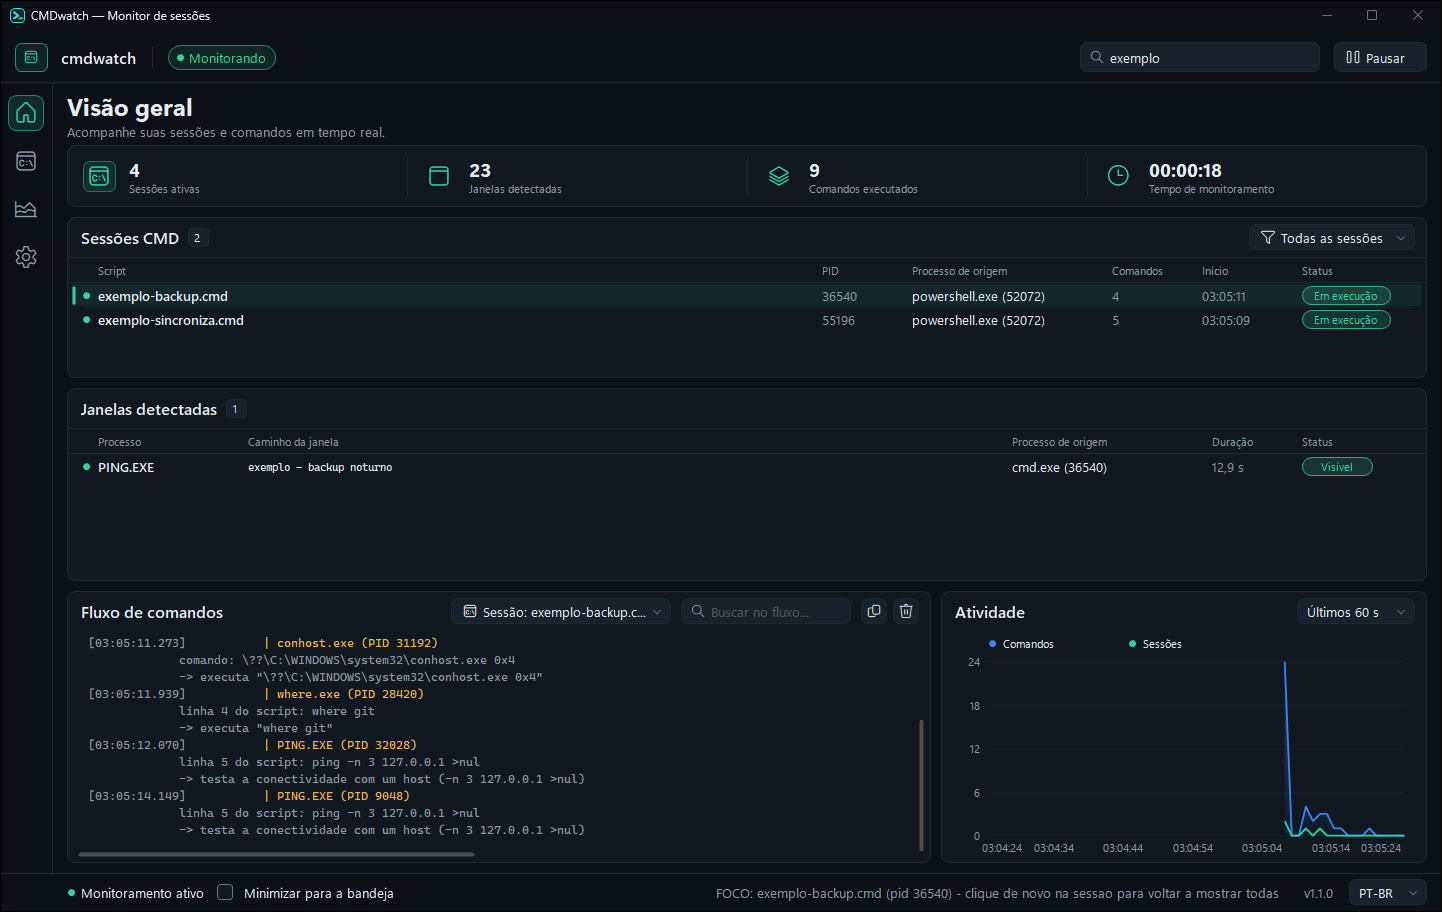
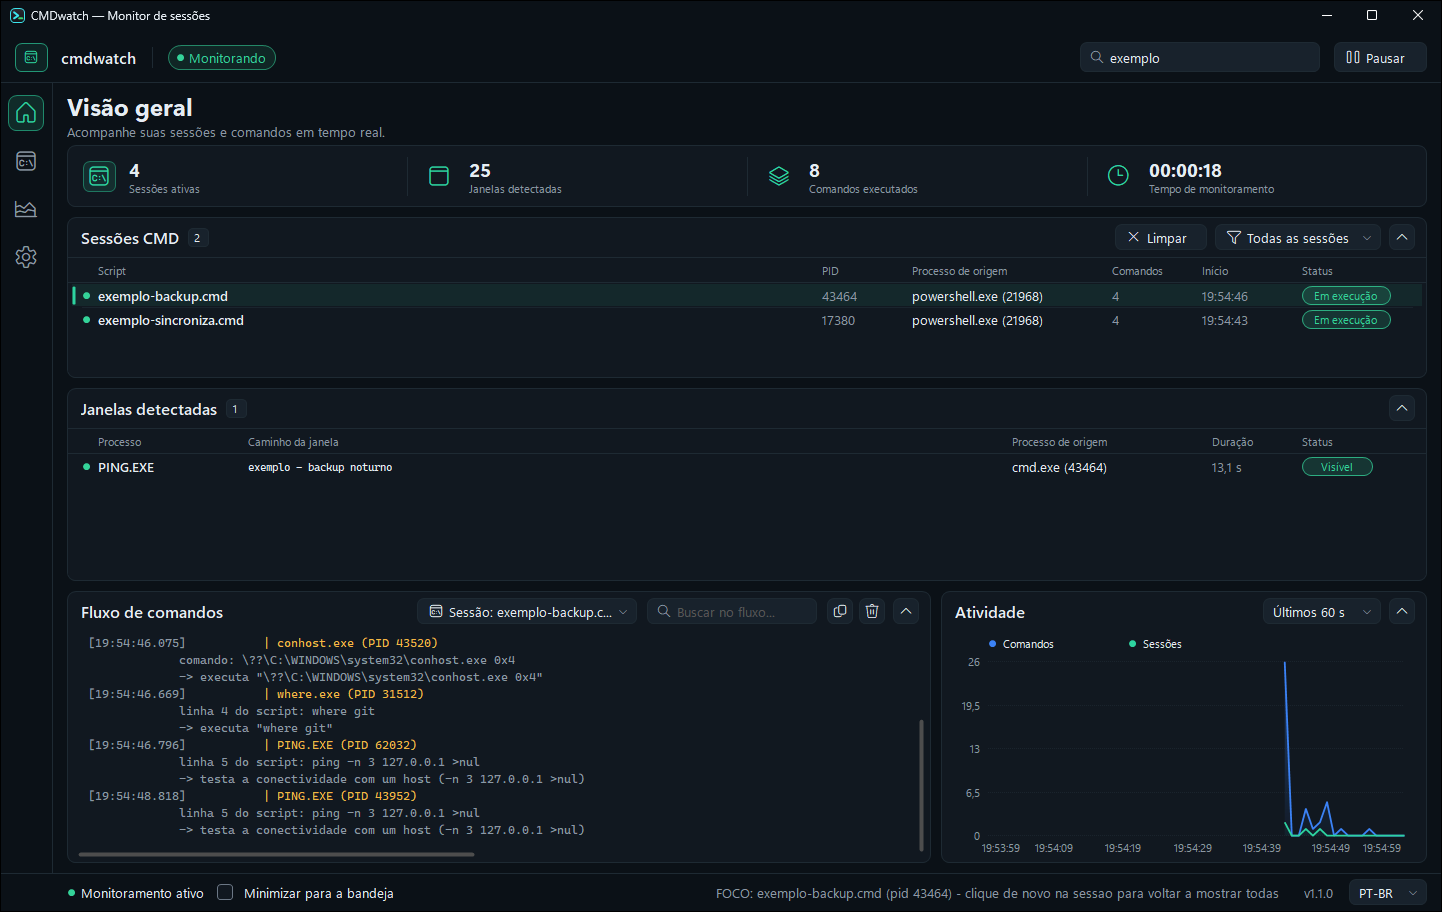
painel: botão Limpar em Sessões CMD, recolher/expandir cartões; README e imagens atualizados

diff --git a/src/gui/DashboardForm.cs b/src/gui/DashboardForm.cs
@@ -54,6 +54,13 @@ namespace CmdWatch.Gui
         private SideBar _side;
         private SearchBox _busca, _buscaFluxo;
         private IconButton _btnPausa, _btnFiltro, _btnSessao, _btnCopiar, _btnLimpar, _btnFaixa, _btnIdioma;
+        private IconButton _btnLimparSess;
+        // recolher/expandir cada cartao: botao de seta no cabecalho; chave salva em ui.cfg
+        private readonly Dictionary<NeonPanel, IconButton> _chev = new Dictionary<NeonPanel, IconButton>();
+        private readonly Dictionary<NeonPanel, string> _chave = new Dictionary<NeonPanel, string>();
+        private readonly HashSet<string> _recolhidos = new HashSet<string>();
+        // "Limpar" das sessoes: sessoes ja vistas (pid + inicio do cmd) deixam de ser mostradas
+        private readonly Dictionary<int, DateTime> _limpas = new Dictionary<int, DateTime>();
         private IconButton _navHome, _navLog, _navGrafico, _navConfig;
         private NotifyIcon _tray;
         private ToolStripMenuItem _miRestore, _miOpenLog, _miQuit;
@@ -165,6 +172,21 @@ namespace CmdWatch.Gui
             _btnCopiar = Botao(_pStream, "\uE8C8", "", false, delegate { CopiarFluxo(); });
             _btnLimpar = Botao(_pStream, "\uE74D", "", false, delegate { LimparFluxo(); });
             _btnFaixa = Botao(_pActivity, "", "", true, delegate { MenuFaixa(_btnFaixa); });
+            _btnLimparSess = Botao(_pSessions, "\uE894", "", false, delegate { LimparSessoes(); });
+            _btnLimparSess.Name = _btnLimparSess.Text = "btnLimparSessoes";
+
+            // seta de recolher em todos os cartoes (nomes estaveis para a automacao de UI)
+            _chave[_pSessions] = "sessoes"; _chave[_pWindows] = "janelas";
+            _chave[_pStream] = "fluxo"; _chave[_pActivity] = "atividade";
+            CarregarRecolhidos();
+            foreach (KeyValuePair<NeonPanel, string> c in _chave)
+            {
+                NeonPanel np = c.Key;
+                np.Name = np.Text = "cartao_" + c.Value;
+                IconButton b = Botao(np, "", "", false, delegate { AlternarRecolher(np); });
+                b.Name = b.Text = "recolher_" + c.Value;
+                _chev[np] = b;
+            }
 
             // rodape
             _checkTray = new NeonCheckBox();
@@ -212,6 +234,15 @@ namespace CmdWatch.Gui
             _btnSessao.Label = Lang.F("v2FlowSess", NomeSessao(_selectedPid));
             _btnCopiar.Tip = Lang.T("v2Copy");
             _btnLimpar.Tip = Lang.T("v2Clear");
+            _btnLimparSess.Label = Lang.T("v2ClearSess");
+            _btnLimparSess.Tip = Lang.T("v2ClearSessTip");
+            foreach (KeyValuePair<NeonPanel, IconButton> c in _chev)
+            {
+                bool rec = Recolhido(c.Key);
+                c.Value.Glyph = rec ? "\uE70D" : "\uE70E";   // seta para baixo = expandir; para cima = recolher
+                c.Value.Tip = Lang.T(rec ? "v2Expand" : "v2Collapse");
+                c.Value.Invalidate();
+            }
             _btnFaixa.Label = Lang.F("v2Range", _activity.Capacity);
             _checkTray.Label = Lang.T("v2Tray");
             _btnIdioma.Label = Lang.Atual == Idioma.En ? "EN" : "PT-BR";
@@ -247,22 +278,45 @@ namespace CmdWatch.Gui
 
             int resto = h - FootH - Gap - y;
             int minT = cab + 26 + 2 * 24 + 6;        // cabecalho + colunas + 2 linhas
-            int sessH = Math.Max(minT, (int)(resto * 0.25));
-            int winH = Math.Max(minT, (int)(resto * 0.30));
-            int midH = Math.Max(130, resto - sessH - winH - Gap * 2);
+            // cartao recolhido = so a linha do cabecalho; os abertos dividem o espaco livre
+            bool cS = Recolhido(_pSessions), cW = Recolhido(_pWindows), cF = Recolhido(_pStream), cA = Recolhido(_pActivity);
+            bool midAberto = !(cF && cA);
+            int midExtra = cF != cA ? cab + Gap : 0;  // um dos dois de baixo recolhido: vira faixa acima do outro
+            int fixo = (cS ? cab : 0) + (cW ? cab : 0) + (midAberto ? 0 : cab);
+            double peso = (cS ? 0 : 0.25) + (cW ? 0 : 0.30) + (midAberto ? 0.45 : 0);
+            int livre = Math.Max(0, resto - fixo - midExtra);
+            if (peso <= 0) peso = 1;
+            int sessH = cS ? cab : Math.Max(minT, (int)(livre * 0.25 / peso));
+            int winH = cW ? cab : Math.Max(minT, (int)(livre * 0.30 / peso));
+            int midH = midAberto ? Math.Max(130, resto - sessH - winH - Gap * 2 - midExtra) : cab;
             _pSessions.SetBounds(x0, y, cw, sessH);
             y += sessH + Gap;
             _pWindows.SetBounds(x0, y, cw, winH);
             y += winH + Gap;
-            int flowW = (int)((cw - Gap) * 0.64);
-            _pStream.SetBounds(x0, y, flowW, midH);
-            _pActivity.SetBounds(x0 + flowW + Gap, y, cw - flowW - Gap, midH);
+            if (cF == cA)
+            {
+                int flowW = (int)((cw - Gap) * 0.64);
+                _pStream.SetBounds(x0, y, flowW, midH);
+                _pActivity.SetBounds(x0 + flowW + Gap, y, cw - flowW - Gap, midH);
+            }
+            else
+            {
+                NeonPanel fechado = cF ? _pStream : _pActivity, aberto = cF ? _pActivity : _pStream;
+                fechado.SetBounds(x0, y, cw, cab);
+                aberto.SetBounds(x0, y + cab + Gap, cw, midH);
+            }
+            _sessions.Visible = !cS; _windows.Visible = !cW; _stream.Visible = !cF; _activity.Visible = !cA;
 
-            // controles dos cabecalhos dos cartoes (alinhados a direita)
+            // controles dos cabecalhos dos cartoes (alinhados a direita; a seta fica no canto)
             int hb = 26, hy = (_pSessions.HeaderHeight - hb) / 2;
+            foreach (KeyValuePair<NeonPanel, IconButton> c in _chev)
+                c.Value.SetBounds(c.Key.Width - 12 - hb, hy, hb, hb);
+            int dir = 12 + hb + 8;
             int fw = Math.Max(140, _btnFiltro.PreferredW());
-            _btnFiltro.SetBounds(_pSessions.Width - 12 - fw, hy, fw, hb);
-            int fx = _pStream.Width - 12;
+            _btnFiltro.SetBounds(_pSessions.Width - dir - fw, hy, fw, hb);
+            int lsw = _btnLimparSess.PreferredW() + 4;
+            _btnLimparSess.SetBounds(_btnFiltro.Left - 8 - lsw, hy, lsw, hb);
+            int fx = _pStream.Width - dir;
             _btnLimpar.SetBounds(fx - hb, hy, hb, hb); fx -= hb + 6;
             _btnCopiar.SetBounds(fx - hb, hy, hb, hb); fx -= hb + 10;
             int qw = Math.Min(170, Math.Max(90, _pStream.Width / 5));
@@ -271,7 +325,7 @@ namespace CmdWatch.Gui
             ssw = Math.Min(ssw, fx - 170);
             _btnSessao.SetBounds(fx - ssw, hy, Math.Max(60, ssw), hb);
             int rw = _btnFaixa.PreferredW();
-            _btnFaixa.SetBounds(_pActivity.Width - 12 - rw, hy, rw, hb);
+            _btnFaixa.SetBounds(_pActivity.Width - dir - rw, hy, rw, hb);
 
             foreach (var par in new KeyValuePair<NeonPanel, Control>[] {
                 new KeyValuePair<NeonPanel, Control>(_pSessions, _sessions),
@@ -466,6 +520,51 @@ namespace CmdWatch.Gui
         {
             _entries.Clear();
             _stream.ClearFlow();
+        }
+
+        /// <summary>
+        /// "Limpar" do cartao Sessoes CMD: esconde todas as sessoes listadas ate
+        /// agora (abertas ou encerradas) e passa a mostrar so as que abrirem
+        /// depois do clique. Nao encerra processos, nao mexe no log nem no
+        /// monitor; o fluxo de comandos tem o seu proprio "Limpar". Uma sessao
+        /// escondida que continue rodando nao volta (mesmo pid e mesmo inicio).
+        /// O contador "ativas" passa a contar so as sessoes mostradas.
+        /// </summary>
+        private void LimparSessoes()
+        {
+            foreach (SessionRow r in _rows) _limpas[r.Pid] = r.CmdStartedAt;
+            _rows.Clear();
+            _rowByPid.Clear();
+            _totalSessions = 0; _totalCalls = 0;
+            if (_selectedPid != 0) { _sessions.SetSelection(0); _selectedPid = 0; }
+            ApplyTexts();
+            OnSlowTick(null, EventArgs.Empty);
+            ShowNotice(Lang.F("v2ClearedSess", DateTime.Now.ToString("HH:mm:ss")), Theme.Teal, 5);
+        }
+
+        private bool Recolhido(NeonPanel np)
+        {
+            string k;
+            return _chave.TryGetValue(np, out k) && _recolhidos.Contains(k);
+        }
+
+        /// <summary>Seta do cabecalho: recolhe o cartao numa linha ou volta a abri-lo.</summary>
+        private void AlternarRecolher(NeonPanel np)
+        {
+            string k;
+            if (!_chave.TryGetValue(np, out k)) return;
+            if (!_recolhidos.Remove(k)) _recolhidos.Add(k);
+            Lang.SetCfg("recolhidos", string.Join(",", _recolhidos.OrderBy(s => s)));
+            ApplyTexts();
+            LayoutDashboard();
+            foreach (NeonPanel p in _chave.Keys) p.Invalidate(true);
+        }
+
+        private void CarregarRecolhidos()
+        {
+            string v = Lang.GetCfg("recolhidos");
+            foreach (string s in v.Split(','))
+                if (_chave.ContainsValue(s.Trim())) _recolhidos.Add(s.Trim());
         }
 
         /// <summary>Engrenagem: mostra a configuracao em uso (somente leitura).</summary>
@@ -922,6 +1021,8 @@ namespace CmdWatch.Gui
         {
             if (s == null) return;
             if (_rowByPid.ContainsKey(s.CmdPid)) return;
+            DateTime limpa;
+            if (_limpas.TryGetValue(s.CmdPid, out limpa) && limpa == s.CmdStartedAt) return;   // escondida pelo "Limpar"
             SessionRow r = new SessionRow();
             r.Pid = s.CmdPid;
             r.Script = s.ScriptName;
@@ -950,7 +1051,7 @@ namespace CmdWatch.Gui
         {
             if (s == null) return;
             SessionRow r;
-            if (!_rowByPid.TryGetValue(s.CmdPid, out r)) return;
+            if (!_rowByPid.TryGetValue(s.CmdPid, out r)) { _limpas.Remove(s.CmdPid); return; }
             r.Closed = true;
             r.ClosedAt = DateTime.Now;
             r.Steps = s.StepCount;
@@ -1065,6 +1166,9 @@ namespace CmdWatch.Gui
                                       .OrderByDescending(r => r.StartedAt).ToList();
                 _sessions.Invalidate();
                 _pSessions.TitleValue = _sessions.Rows.Count.ToString();
+                string ts = "cartao_sessoes|linhas=" + _sessions.Rows.Count + "|" +   // lido pela automacao de UI
+                            string.Join(",", _sessions.Rows.Take(12).Select(r => r.Script));
+                if (_pSessions.Text != ts) _pSessions.Text = ts;
                 _pSessions.Invalidate();
 
                 // a tabela de janelas: duracao correndo e estado atual

diff --git a/src/Lang.cs b/src/Lang.cs
@@ -61,6 +61,11 @@ namespace CmdWatch
             { "v2FlowSearch", new[] { "Buscar no fluxo...", "Search the flow..." } },
             { "v2Copy", new[] { "Copiar o fluxo exibido", "Copy the shown flow" } },
             { "v2Clear", new[] { "Limpar o fluxo (F5)", "Clear the flow (F5)" } },
+            { "v2ClearSess", new[] { "Limpar", "Clear" } },
+            { "v2ClearSessTip", new[] { "Limpar a lista: mostrar s\u00f3 as sess\u00f5es que abrirem a partir de agora", "Clear the list: show only sessions that start from now on" } },
+            { "v2ClearedSess", new[] { "Sess\u00f5es limpas: mostrando as que abrirem a partir de {0}", "Sessions cleared: showing those that start from {0}" } },
+            { "v2Collapse", new[] { "Recolher", "Collapse" } },
+            { "v2Expand", new[] { "Expandir", "Expand" } },
             { "v2Copied", new[] { "Fluxo copiado ({0} linhas)", "Flow copied ({0} lines)" } },
             { "v2Activity", new[] { "Atividade", "Activity" } },
             { "v2Range", new[] { "Últimos {0} s", "Last {0} s" } },
@@ -259,7 +264,40 @@ namespace CmdWatch
                 string p = ConfigPath;
                 string dir = Path.GetDirectoryName(p);
                 if (!string.IsNullOrEmpty(dir)) Directory.CreateDirectory(dir);
-                File.WriteAllText(p, "lang=" + (Atual == Idioma.En ? "en" : "pt-br") + Environment.NewLine);
+                SetCfg("lang", Atual == Idioma.En ? "en" : "pt-br");
+            }
+            catch { }
+        }
+
+        /// <summary>Valor de uma chave do ui.cfg ("" se ausente).</summary>
+        public static string GetCfg(string chave)
+        {
+            try
+            {
+                string p = ConfigPath;
+                if (!File.Exists(p)) return "";
+                foreach (string line in File.ReadAllLines(p))
+                    if (line.StartsWith(chave + "=", StringComparison.OrdinalIgnoreCase))
+                        return line.Substring(chave.Length + 1).Trim();
+            }
+            catch { }
+            return "";
+        }
+
+        /// <summary>Grava uma chave no ui.cfg preservando as demais linhas.</summary>
+        public static void SetCfg(string chave, string valor)
+        {
+            try
+            {
+                string p = ConfigPath;
+                string dir = Path.GetDirectoryName(p);
+                if (!string.IsNullOrEmpty(dir)) Directory.CreateDirectory(dir);
+                var linhas = new System.Collections.Generic.List<string>();
+                if (File.Exists(p))
+                    foreach (string line in File.ReadAllLines(p))
+                        if (line.Trim().Length > 0 && !line.StartsWith(chave + "=", StringComparison.OrdinalIgnoreCase)) linhas.Add(line);
+                linhas.Add(chave + "=" + valor);
+                File.WriteAllLines(p, linhas);
             }
             catch { }
         }

diff --git a/src/gui/Widgets.cs b/src/gui/Widgets.cs
@@ -216,6 +216,19 @@ namespace CmdWatch.Gui
                     ChevFont);
         }
 
+        // acessibilidade: o botao aparece como "botao" e pode ser acionado pelo
+        // leitor de tela / UI Automation (Invoke), como um Button comum
+        protected override AccessibleObject CreateAccessibilityInstance() { return new Acesso(this); }
+        private sealed class Acesso : ControlAccessibleObject
+        {
+            private readonly IconButton _b;
+            public Acesso(IconButton b) : base(b) { _b = b; }
+            public override AccessibleRole Role { get { return AccessibleRole.PushButton; } }
+            public override string DefaultAction { get { return "Press"; } }
+            public override string Name { get { return _b.Text; } set { } }
+            public override void DoDefaultAction() { if (_b.Enabled) _b.OnClick(EventArgs.Empty); }
+        }
+
         protected override void OnMouseEnter(EventArgs e) { base.OnMouseEnter(e); _hot = true; Invalidate(); }
         protected override void OnMouseLeave(EventArgs e) { base.OnMouseLeave(e); _hot = false; Invalidate(); }
 

diff --git a/README.md b/README.md
@@ -2,6 +2,8 @@
 
 **[Português](#português) | [English](#english)**
 
+> **In English:** Started using AI agents at scale and CMD windows keep popping up? AI agents run lots of scripts, often in visible console windows, and you can't tell where they come from. CMDWatcher shows who opened each console and window (the author process, its ancestor chain and the command line), so you can find the root cause and monitor your computer whenever you need. It gives you the evidence; it does not automatically label anything as "AI" or "operating system".
+
 ![Painel do cmdwatch](docs/dashboard.png)
 
 ---
@@ -193,6 +195,18 @@ componentes de terceiros. Aceita as opções do `monitor` (`--filter`, `--interv
 - **Idioma:** a troca PT-BR/EN é imediata e fica salva em `%APPDATA%\cmdwatch\ui.cfg`. As
   explicações dos comandos vêm do dicionário compartilhado com a CLI e continuam em
   português.
+- **Limpar sessões:** o botão **Limpar** no cartão *Sessões CMD* esvazia a lista e passa a
+  mostrar só as sessões que abrirem **a partir daquele momento**. As sessões que já estavam
+  na lista não voltam, nem se continuarem rodando. Nada é encerrado, o log e o
+  monitoramento seguem iguais, e o fluxo de comandos tem o seu próprio botão de limpar
+  (`F5`). O indicador *Sessões ativas* passa a contar só as sessões da lista.
+- **Recolher e expandir cartões:** a seta no canto direito de cada cartão (*Sessões CMD*,
+  *Janelas detectadas*, *Fluxo de comandos*, *Atividade*) recolhe o cartão numa linha só;
+  clique de novo para abrir. Os outros cartões ocupam o espaço liberado. O estado fica
+  salvo em `%APPDATA%\cmdwatch\ui.cfg` e volta igual na próxima vez.
+
+  ![Cartão Janelas detectadas recolhido](docs/recolhido.png)
+
 - A janela do próprio cmdwatch não entra na lista.
 
 Para ver o painel em ação: `demo\gui-demo.cmd` dispara uma sequência de comandos (inclusive
@@ -666,6 +680,18 @@ third-party components. It accepts the `monitor` options (`--filter`, `--interva
   area and monitoring continues (click the icon to restore, right-click to exit).
 - **Language:** switching PT-BR/EN is immediate and saved in `%APPDATA%\cmdwatch\ui.cfg`.
   Command explanations come from the dictionary shared with the CLI and stay in Portuguese.
+- **Clear sessions:** the **Clear** button on the *CMD sessions* card empties the list and
+  from then on shows only sessions that start **after that moment**. Sessions that were
+  already listed do not come back, even if they keep running. Nothing is terminated, the
+  log and monitoring are unaffected, and the command flow has its own clear button (`F5`).
+  The *Active sessions* indicator then counts only the sessions in the list.
+- **Collapse and expand cards:** the chevron at the right of each card (*CMD sessions*,
+  *Detected windows*, *Command flow*, *Activity*) collapses the card to a single line;
+  click again to open it. The other cards take the freed space. The state is saved in
+  `%APPDATA%\cmdwatch\ui.cfg` and restored next time.
+
+  ![Detected windows card collapsed](docs/recolhido.png)
+
 - cmdwatch's own window is not listed.
 
 To see the panel in action: `demo\gui-demo.cmd` runs a sequence of commands (including a

diff --git a/docs/revisao-1.1.0.md b/docs/revisao-1.1.0.md
@@ -412,3 +412,22 @@ Cerca de +1 ponto. A diferença minimizada também aparece, embora o painel mini
 
 ### Incidente: encerramento amplo
 - Numa captura anterior (rodada do README) rodei `Get-Process cmdwatch | Stop-Process -Force`, contra a regra de só encerrar processos dos próprios testes. As verificações logo antes não mostravam cmdwatch aberto, então provavelmente nada foi encerrado, mas o comando não devia ter sido usado. Nesta rodada os testes só encerram PIDs que iniciaram (ou processos com a marca única do teste na linha de comando).
+
+## Adendo: botões Limpar e recolher/expandir (04/11/2026)
+
+**Pedido:** um botão para limpar as sessões CMD e ver só as novas a partir daquele momento, e um botão em cada cartão para recolhê-lo numa linha (para minimizar *Janelas detectadas*).
+
+**O que mudou**
+- `src/gui/DashboardForm.cs`: botão **Limpar** no cabeçalho de *Sessões CMD*; seta de recolher/expandir nos quatro cartões; layout redistribui o espaço; estado salvo em `ui.cfg` (`recolhidos=`).
+- `src/Lang.cs`: textos PT-BR/EN; `ui.cfg` agora guarda várias chaves (`GetCfg`/`SetCfg`) sem apagar o idioma.
+- `src/gui/Widgets.cs`: `IconButton` expõe papel de botão e ação padrão (acessibilidade/UI Automation).
+- `tools/test-limpar-recolher.ps1` (novo) e `tools/captura-readme.ps1` (captura `docs/recolhido.png`, força PT-BR e cartões abertos e restaura o `ui.cfg`).
+
+**Semântica do Limpar:** esconde as sessões listadas até o clique (pid + início do cmd) e mostra só as que abrirem depois. Sessão escondida que continua rodando não volta. Não encerra processos, não mexe no log nem no motor; *Sessões ativas* conta só a lista. O fluxo de comandos não é afetado.
+
+**Testes executados**
+- `test-limpar-recolher.ps1`: 11/11 em 3 rodadas. Lista 0 linhas logo após Limpar e 3 s depois; sessões limpas continuam vivas; só a sessão nova aparece; log segue gravando. Recolher *Janelas detectadas*: 193 → 40 px, Sessões 161 → 216 px, Fluxo/Atividade 272 → 370 px; continua recolhido após reiniciar; expandir volta a 193/161/272.
+- `test-painel.ps1`: FECHAR, D5-painel, MASCARA-painel e FECHAR-velho passaram.
+- CPU do painel parado: 5,4% de um núcleo (versão anterior medida junto: 5,1%); rajada 20,1% (anterior 25,7%).
+
+**Não testado:** clique físico com o mouse (o teste aciona os botões pela acessibilidade; o clique normal usa o mesmo código).
